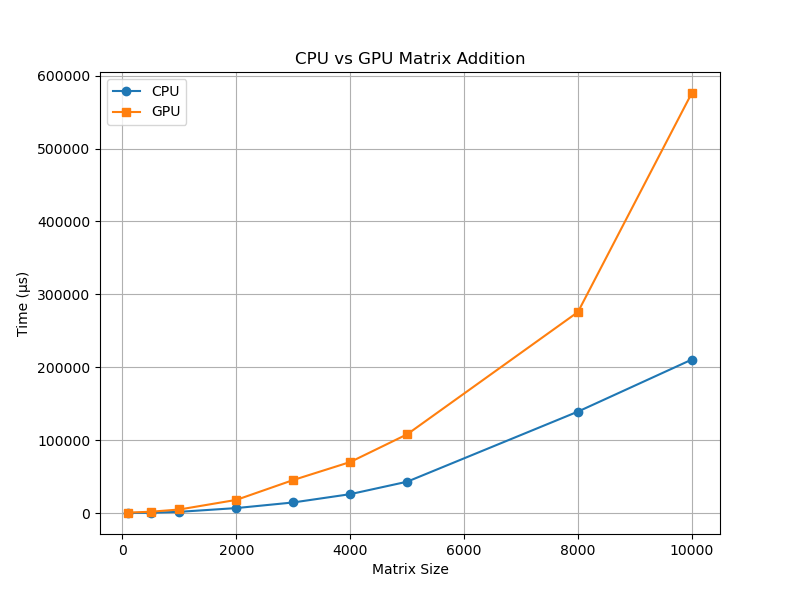
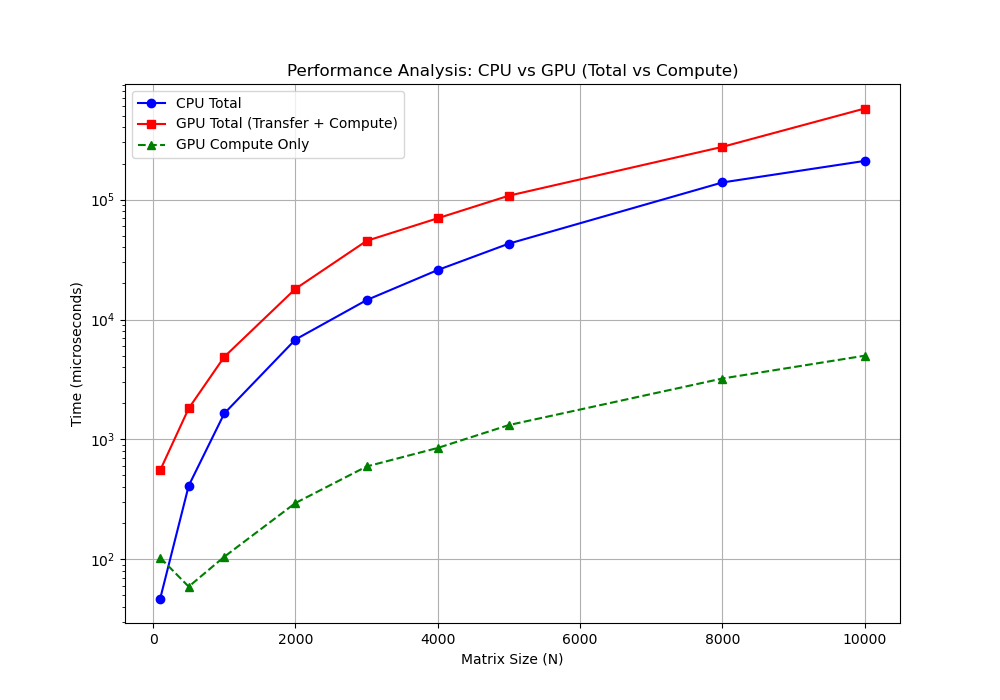
made some small changes

diff --git a/assignments/assignment01/task4/plot.py b/assignments/assignment01/task4/plot.py
@@ -1,18 +1,26 @@
 import matplotlib.pyplot as plt
 
-# Sizes
 sizes = [100, 500, 1000, 2000, 3000, 4000, 5000, 8000, 10000]
-
-# Times in µs
 cpu_times = [47, 410, 1645, 6807, 14520, 25886, 42974, 139142, 210516]
-gpu_times = [553.5, 1812.2, 4879.6, 18032.3, 45297.9, 69967.8, 107977.2, 275755.5, 576165.6]
+gpu_total_times = [553.5, 1812.2, 4879.6, 18032.3, 45297.9, 69967.8, 107977.2, 275755.5, 576165.6]
+gpu_kernel_times = [102.75, 59.04, 104.77, 294.37, 593.73, 848.06, 1316.42, 3218.66, 4988.93]
 
-plt.figure(figsize=(8, 6))
-plt.plot(sizes, cpu_times, label='CPU', marker='o')
-plt.plot(sizes, gpu_times, label='GPU', marker='s')
-plt.xlabel('Matrix Size')
-plt.ylabel('Time (µs)')
-plt.title('CPU vs GPU Matrix Addition')
+
+plt.figure(figsize=(10, 7))
+
+
+plt.plot(sizes, cpu_times, label='CPU Total', marker='o', color='blue')
+plt.plot(sizes, gpu_total_times, label='GPU Total (Transfer + Compute)', marker='s', color='red')
+plt.plot(sizes, gpu_kernel_times, label='GPU Compute Only', marker='^', color='green', linestyle='--')
+
+
+plt.xlabel('Matrix Size (N)')
+plt.ylabel('Time (microseconds)')
+plt.title('Performance Analysis: CPU vs GPU (Total vs Compute)')
 plt.legend()
 plt.grid(True)
+
+plt.yscale('log') 
+
 plt.savefig("cpu-vs-gpu.png")
+print("Graph saved as cpu-vs-gpu.png")
